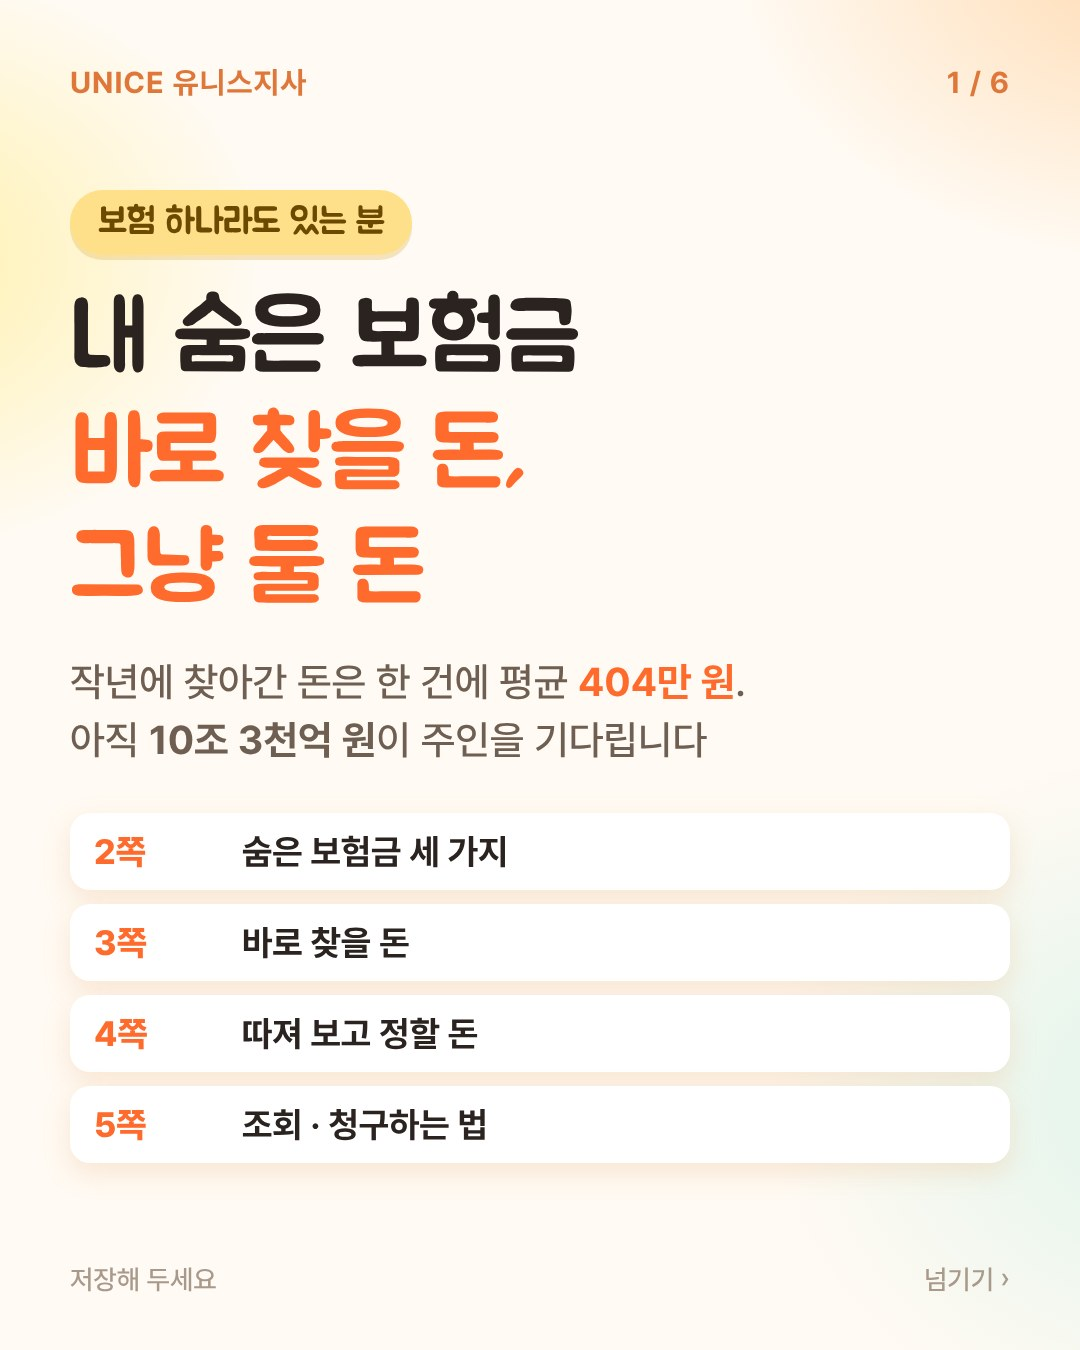
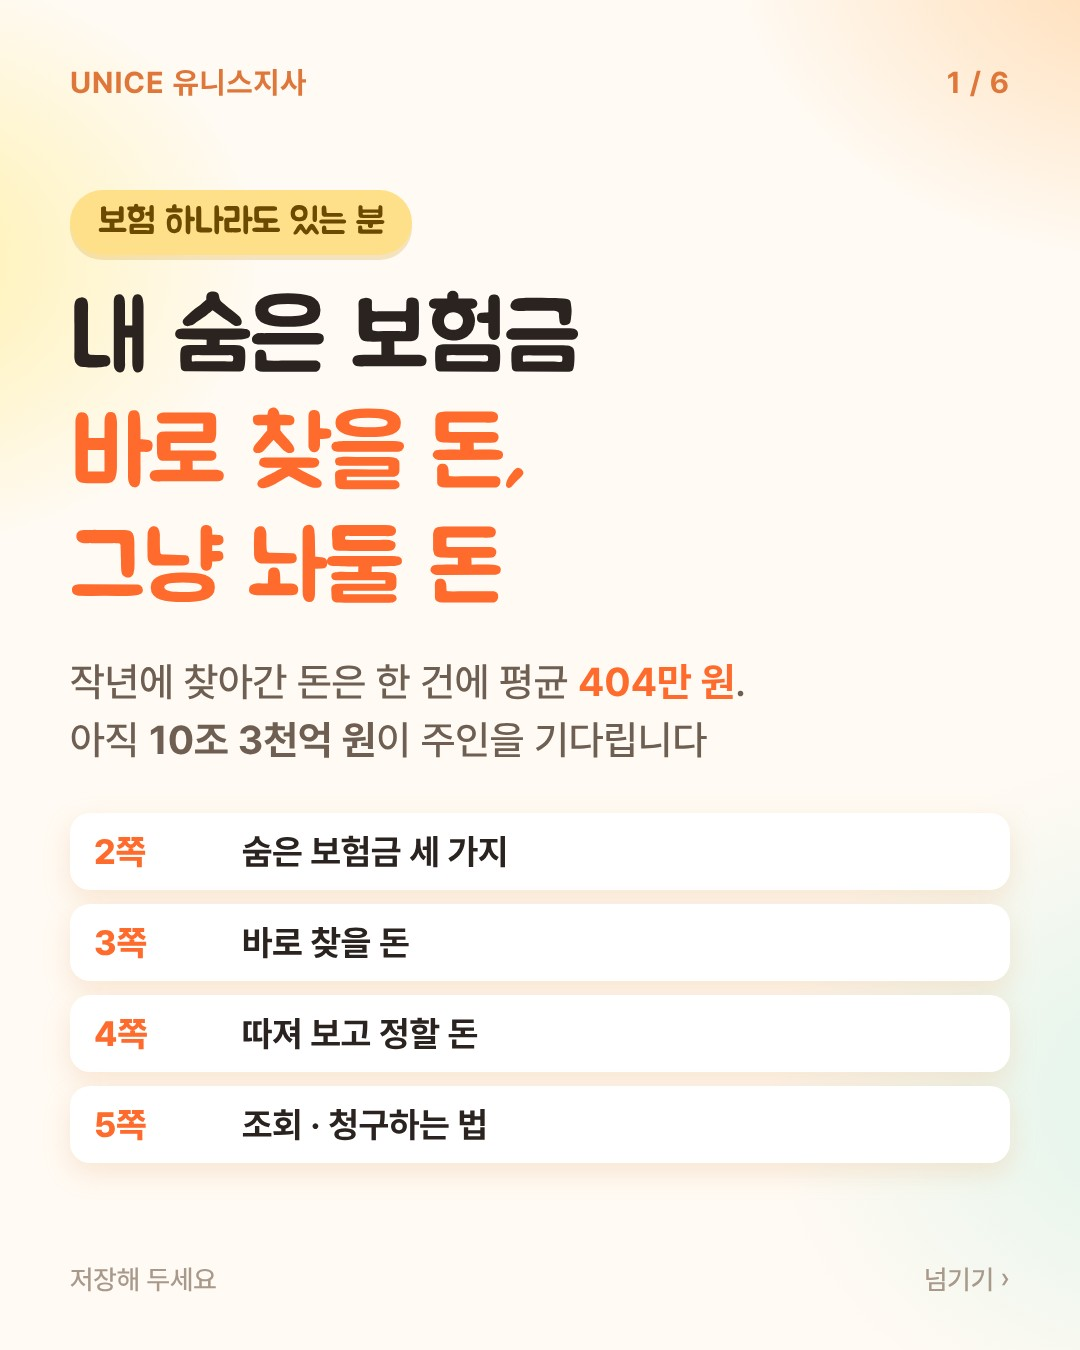
ig: 숨은 보험금 자료 「둘 돈」 → 「놔둘 돈」 (6장 · 카드 · 페이지 · 신청 · 무료 자료)
Claude-Session: https://claude.ai/code/session_01Wbm9HneKnYDdz2uZqWVMXR

Changed region(s): [[0.2139, 0.3733, 0.4583, 0.4667]]

diff --git a/ig/apply.html b/ig/apply.html
@@ -58,7 +58,7 @@ body.ok #form{display:none}body.ok #done{display:block}
 (function(){
 var GAS = 'https://script.google.com/macros/s/AKfycbx3dE8zn0pkrjsklnrWP-dLUJQ_PyLfVPGd49YsX28U-Wc6ifM4TxdNBgB14b9bOyvL/exec';
 var OWNER = 'ktk01';   /* 인스타 신청은 모두 대표에게 들어가고 대표가 배분 */
-var TOPICS = {"keep6": {"h": "내 보험은 6가지 중<br><b>뭐가 되는지</b> 알려 드릴게요", "d": "상품마다 되는 방법이 달라요. 이름과 연락처만 남겨 주시면 내 보험에서 쓸 수 있는 방법을 알려 드립니다.", "chip": "해지 대신 쓸 방법", "title": "해지 대신 쓰는 방법 6가지"}, "yearend": {"h": "내 연봉이면<br><b>12월에 얼마 넣을지</b> 같이 봐 드릴게요", "d": "올해 이미 넣은 돈과 내 연봉을 보고, 12월 안에 더 넣을지와 얼마가 맞는지 같이 봐 드립니다.", "chip": "연말정산", "title": "내 연봉이면 12월에 얼마 넣고 얼마 돌려받나"}, "after": {"h": "부모님 보험,<br><b>어디에 뭐가 있는지</b> 같이 찾아 드릴게요", "d": "조회 결과에 나온 보험이 어떤 것인지, 청구할 수 있는 것이 남았는지 차근차근 봐 드립니다.", "chip": "부모님 보험 찾기", "title": "부모님 보내 드린 뒤 기한별로 할 일"}, "lookup7": {"h": "7곳 하나하나 하기 번거롭다면<br><b>숨은 내 돈, 같이 찾아 드릴게요</b>", "d": "조회 결과에 모르는 보험이 나와도 괜찮아요. 어떤 보험인지, 받을 돈이 남았는지 같이 봐 드립니다.", "chip": "모르는 보험 확인", "title": "내 돈 찾는 무료 조회 7곳"}, "car": {"h": "내 차, 내 상황이면<br><b>어떤 할인이 붙는지</b> 봐 드릴게요", "d": "운전하는 사람, 아이, 블랙박스처럼 내 상황에 따라 붙는 할인이 달라요. 갱신 전에 빠진 할인이 없는지 같이 봐 드립니다.", "chip": "자동차보험 할인", "title": "자동차보험 할인 특약 정리"}, "cap": {"h": "내 병원비,<br><b>돌려받을 게 남았는지</b> 같이 봐 드릴게요", "d": "우리 집과 부모님 병원비 중에 돌려받을 게 있는지, 신청은 어떻게 하는지 차근차근 알려 드립니다.", "chip": "병원비 돌려받기", "title": "내 소득 구간이면 병원비 얼마부터 돌려받나"}, "hospital": {"h": "못 받은 병원비,<br><b>내 실손으로 얼마까지 되는지</b> 알려 드릴게요", "d": "실손은 가입한 때에 따라 돌려받는 금액이 달라요. 내 실손 기준으로 얼마까지 되는지 알려 드립니다.", "chip": "못 받은 병원비", "title": "놓친 병원비 찾는 법"}, "caracc": {"h": "내 사고, 내 보험이면<br><b>따로 받을 돈이 있는지</b> 봐 드릴게요", "d": "상대 보험에서 받을 돈과 내 운전자 · 상해보험에서 따로 나오는 돈을 나눠서 차근차근 알려 드립니다.", "chip": "차 사고 보상금", "title": "차 사고 나면 받을 수 있는 돈 7가지"}, "hidden": {"h": "조회 결과에 나온 돈,<br><b>찾을지 둘지</b> 같이 봐 드릴게요", "d": "회사별로 나온 숨은 보험금이 어떤 돈인지, 지금 찾는 게 나은지 그대로 두는 게 나은지 차근차근 봐 드립니다.", "chip": "숨은 보험금 찾기", "title": "숨은 보험금, 바로 찾을 돈 · 그냥 둘 돈"}, "silson": {"title": "실손 인상 안내", "h": "내 실손보험료,<br><b>앞으로 얼마나 오를지</b> 예측해 드릴게요", "d": "가입 시기와 나이에 따라 오르는 폭이 달라요. 이름과 연락처만 남겨 주시면 내 실손 기준으로 예측해서 알려 드려요.", "chip": "실손이 얼마나 오를지", "hub": 1, "back": "silson.html", "backText": "앞 화면으로 돌아가기"}, "quiz": {"title": "이럴 때 내 보험에서 나올까 퀴즈", "h": "이 보장이 <b>내 보험에 있는지</b><br>확인해 드릴게요", "d": "다른 보험에 특약으로 붙어 있어서 있는 줄 모르는 분이 많아요. 이름과 연락처만 남겨 주시면 확인해서 알려 드려요.", "chip": "배상책임 보장이 있는지", "hub": 1, "back": "quiz.html", "backText": "퀴즈로 돌아가기"}, "ask": {"title": "대문 링크", "h": "내 보험,<br><b>손해 보는 곳은 없는지</b><br>알려 드릴게요", "d": "궁금한 것을 골라 주세요. 이름과 연락처만 남겨 주시면 내 보험 기준으로 알려 드려요.", "chip": "", "hub": 1, "back": "./", "backText": "앞 화면으로 돌아가기"}};
+var TOPICS = {"keep6": {"h": "내 보험은 6가지 중<br><b>뭐가 되는지</b> 알려 드릴게요", "d": "상품마다 되는 방법이 달라요. 이름과 연락처만 남겨 주시면 내 보험에서 쓸 수 있는 방법을 알려 드립니다.", "chip": "해지 대신 쓸 방법", "title": "해지 대신 쓰는 방법 6가지"}, "yearend": {"h": "내 연봉이면<br><b>12월에 얼마 넣을지</b> 같이 봐 드릴게요", "d": "올해 이미 넣은 돈과 내 연봉을 보고, 12월 안에 더 넣을지와 얼마가 맞는지 같이 봐 드립니다.", "chip": "연말정산", "title": "내 연봉이면 12월에 얼마 넣고 얼마 돌려받나"}, "after": {"h": "부모님 보험,<br><b>어디에 뭐가 있는지</b> 같이 찾아 드릴게요", "d": "조회 결과에 나온 보험이 어떤 것인지, 청구할 수 있는 것이 남았는지 차근차근 봐 드립니다.", "chip": "부모님 보험 찾기", "title": "부모님 보내 드린 뒤 기한별로 할 일"}, "lookup7": {"h": "7곳 하나하나 하기 번거롭다면<br><b>숨은 내 돈, 같이 찾아 드릴게요</b>", "d": "조회 결과에 모르는 보험이 나와도 괜찮아요. 어떤 보험인지, 받을 돈이 남았는지 같이 봐 드립니다.", "chip": "모르는 보험 확인", "title": "내 돈 찾는 무료 조회 7곳"}, "car": {"h": "내 차, 내 상황이면<br><b>어떤 할인이 붙는지</b> 봐 드릴게요", "d": "운전하는 사람, 아이, 블랙박스처럼 내 상황에 따라 붙는 할인이 달라요. 갱신 전에 빠진 할인이 없는지 같이 봐 드립니다.", "chip": "자동차보험 할인", "title": "자동차보험 할인 특약 정리"}, "cap": {"h": "내 병원비,<br><b>돌려받을 게 남았는지</b> 같이 봐 드릴게요", "d": "우리 집과 부모님 병원비 중에 돌려받을 게 있는지, 신청은 어떻게 하는지 차근차근 알려 드립니다.", "chip": "병원비 돌려받기", "title": "내 소득 구간이면 병원비 얼마부터 돌려받나"}, "hospital": {"h": "못 받은 병원비,<br><b>내 실손으로 얼마까지 되는지</b> 알려 드릴게요", "d": "실손은 가입한 때에 따라 돌려받는 금액이 달라요. 내 실손 기준으로 얼마까지 되는지 알려 드립니다.", "chip": "못 받은 병원비", "title": "놓친 병원비 찾는 법"}, "caracc": {"h": "내 사고, 내 보험이면<br><b>따로 받을 돈이 있는지</b> 봐 드릴게요", "d": "상대 보험에서 받을 돈과 내 운전자 · 상해보험에서 따로 나오는 돈을 나눠서 차근차근 알려 드립니다.", "chip": "차 사고 보상금", "title": "차 사고 나면 받을 수 있는 돈 7가지"}, "hidden": {"h": "조회 결과에 나온 돈,<br><b>찾을지 놔둘지</b> 같이 봐 드릴게요", "d": "회사별로 나온 숨은 보험금이 어떤 돈인지, 지금 찾는 게 나은지 그대로 두는 게 나은지 차근차근 봐 드립니다.", "chip": "숨은 보험금 찾기", "title": "숨은 보험금, 바로 찾을 돈 · 그냥 놔둘 돈"}, "silson": {"title": "실손 인상 안내", "h": "내 실손보험료,<br><b>앞으로 얼마나 오를지</b> 예측해 드릴게요", "d": "가입 시기와 나이에 따라 오르는 폭이 달라요. 이름과 연락처만 남겨 주시면 내 실손 기준으로 예측해서 알려 드려요.", "chip": "실손이 얼마나 오를지", "hub": 1, "back": "silson.html", "backText": "앞 화면으로 돌아가기"}, "quiz": {"title": "이럴 때 내 보험에서 나올까 퀴즈", "h": "이 보장이 <b>내 보험에 있는지</b><br>확인해 드릴게요", "d": "다른 보험에 특약으로 붙어 있어서 있는 줄 모르는 분이 많아요. 이름과 연락처만 남겨 주시면 확인해서 알려 드려요.", "chip": "배상책임 보장이 있는지", "hub": 1, "back": "quiz.html", "backText": "퀴즈로 돌아가기"}, "ask": {"title": "대문 링크", "h": "내 보험,<br><b>손해 보는 곳은 없는지</b><br>알려 드릴게요", "d": "궁금한 것을 골라 주세요. 이름과 연락처만 남겨 주시면 내 보험 기준으로 알려 드려요.", "chip": "", "hub": 1, "back": "./", "backText": "앞 화면으로 돌아가기"}};
 var BASE = ['해지 대신 쓸 방법', '보험료 줄이기', '못 받은 병원비', '연말정산', '부모님 보험 찾기', '그 밖에'];
 function $(i){ return document.getElementById(i); }
 var m = /[?&]t=([a-z0-9]+)/.exec(location.search), tk = m && TOPICS[m[1]] ? m[1] : '', t = tk ? TOPICS[tk] : null;

diff --git a/ig/hidden.html b/ig/hidden.html
@@ -1,1 +1,1 @@
-<!doctype html><html lang="ko"><head><meta charset="utf-8"><meta name="viewport" content="width=device-width,initial-scale=1"><title>숨은 보험금, 바로 찾을 돈 · 그냥 둘 돈 | UNICE 유니스지사</title><meta property="og:title" content="숨은 보험금, 바로 찾을 돈 · 그냥 둘 돈"><meta property="og:description" content="6장으로 정리했습니다. 눌러서 보고 저장하세요."><meta property="og:type" content="website"><meta property="og:site_name" content="UNICE 유니스지사"><meta property="og:url" content="https://unice-vip.co.kr/ig/hidden.html"><meta property="og:image" content="https://unice-vip.co.kr/ig/hidden_card.jpg"><meta property="og:image:width" content="1200"><meta property="og:image:height" content="630"><meta name="twitter:card" content="summary_large_image"><style>@font-face{font-family:"UT";src:url(f_title.woff2) format("woff2");font-display:swap}.nx h2,.nx a{font-family:"UT",-apple-system,"Apple SD Gothic Neo","Malgun Gothic",sans-serif;font-weight:400!important}.nx h2 b{font-weight:400}body{margin:0;background:radial-gradient(380px 260px at 108% -30px,#ffd9ae 0,rgba(255,217,174,0) 70%),radial-gradient(320px 240px at -12% 150px,#fff0a8 0,rgba(255,240,168,0) 70%),#fffaf3;background-repeat:no-repeat;color:#a8998b;font-family:-apple-system,"Apple SD Gothic Neo","Malgun Gothic",sans-serif;text-align:center}main{max-width:640px;margin:0 auto;padding:12px}img{width:100%;display:block;border-radius:18px;margin:0 0 14px;box-shadow:0 8px 22px rgba(232,180,130,.3)}p{font-size:14px;line-height:1.6;padding:8px 8px 28px;word-break:keep-all}.nx{text-align:left;background:linear-gradient(180deg,#fff,#fff7ee);box-shadow:0 10px 26px rgba(232,180,130,.32);border:1.5px solid #fff;border-radius:24px;padding:24px 18px 20px;margin:8px 0 4px;word-break:keep-all;color:#2a2320}.nx i{font-style:normal;display:inline-block;background:#ffe08a;color:#6b4a00;font-weight:800;font-size:13px;border-radius:12px;padding:5px 11px}.nx h2{font-size:24px;line-height:1.32;margin:12px 0 8px;letter-spacing:-.4px}.nx h2 b{color:#ff6b2c}.nx div{font-size:15px;line-height:1.6;color:#7a6a5c}.nx ul{list-style:none;display:flex;flex-wrap:wrap;gap:6px;margin:14px 0 0;padding:0}.nx li{background:#fff;border-radius:12px;padding:7px 10px;font-size:13px;font-weight:700;color:#7a6a5c;box-shadow:0 3px 8px rgba(240,201,160,.3)}.nx a{display:block;margin-top:16px;background:linear-gradient(135deg,#ff9248 0,#ff5a2c 100%);color:#fff;font-weight:800;font-size:20px;text-align:center;text-decoration:none;border-radius:999px;padding:18px 10px;box-shadow:0 10px 22px rgba(255,107,44,.35),inset 0 2px 0 rgba(255,255,255,.35)}@media(max-width:374px){.nx a{font-size:17.5px;padding:18px 6px}}</style></head><body><main><img src="hidden_1.jpg" alt="숨은 보험금, 바로 찾을 돈 · 그냥 둘 돈 1/6"><img src="hidden_2.jpg" alt="숨은 보험금, 바로 찾을 돈 · 그냥 둘 돈 2/6"><img src="hidden_3.jpg" alt="숨은 보험금, 바로 찾을 돈 · 그냥 둘 돈 3/6"><img src="hidden_4.jpg" alt="숨은 보험금, 바로 찾을 돈 · 그냥 둘 돈 4/6"><img src="hidden_5.jpg" alt="숨은 보험금, 바로 찾을 돈 · 그냥 둘 돈 5/6"><img src="hidden_6.jpg" alt="숨은 보험금, 바로 찾을 돈 · 그냥 둘 돈 6/6"><section class="nx"><i>여기까지 읽으셨다면 👏</i><h2>조회 결과에 나온 돈,<br><b>찾을지 둘지</b> 같이 봐 드릴게요</h2><div>회사별로 나온 숨은 보험금이 어떤 돈인지, 지금 찾는 게 나은지 그대로 두는 게 나은지 차근차근 봐 드립니다.</div><ul><li>⏰ 적는 데 1분</li><li>💸 비용 없음</li><li>📩 정리해서 답장</li></ul><a href="apply.html?t=hidden">내 숨은 보험금, 찾을까 둘까요? 💬</a></section><p>그림을 길게 누르면 저장할 수 있습니다.<br>한화생명금융서비스 VIP금융사업부 유니스 · 부산<br>인스타그램 @unice0930</p></main></body></html>
+<!doctype html><html lang="ko"><head><meta charset="utf-8"><meta name="viewport" content="width=device-width,initial-scale=1"><title>숨은 보험금, 바로 찾을 돈 · 그냥 놔둘 돈 | UNICE 유니스지사</title><meta property="og:title" content="숨은 보험금, 바로 찾을 돈 · 그냥 놔둘 돈"><meta property="og:description" content="6장으로 정리했습니다. 눌러서 보고 저장하세요."><meta property="og:type" content="website"><meta property="og:site_name" content="UNICE 유니스지사"><meta property="og:url" content="https://unice-vip.co.kr/ig/hidden.html"><meta property="og:image" content="https://unice-vip.co.kr/ig/hidden_card.jpg"><meta property="og:image:width" content="1200"><meta property="og:image:height" content="630"><meta name="twitter:card" content="summary_large_image"><style>@font-face{font-family:"UT";src:url(f_title.woff2) format("woff2");font-display:swap}.nx h2,.nx a{font-family:"UT",-apple-system,"Apple SD Gothic Neo","Malgun Gothic",sans-serif;font-weight:400!important}.nx h2 b{font-weight:400}body{margin:0;background:radial-gradient(380px 260px at 108% -30px,#ffd9ae 0,rgba(255,217,174,0) 70%),radial-gradient(320px 240px at -12% 150px,#fff0a8 0,rgba(255,240,168,0) 70%),#fffaf3;background-repeat:no-repeat;color:#a8998b;font-family:-apple-system,"Apple SD Gothic Neo","Malgun Gothic",sans-serif;text-align:center}main{max-width:640px;margin:0 auto;padding:12px}img{width:100%;display:block;border-radius:18px;margin:0 0 14px;box-shadow:0 8px 22px rgba(232,180,130,.3)}p{font-size:14px;line-height:1.6;padding:8px 8px 28px;word-break:keep-all}.nx{text-align:left;background:linear-gradient(180deg,#fff,#fff7ee);box-shadow:0 10px 26px rgba(232,180,130,.32);border:1.5px solid #fff;border-radius:24px;padding:24px 18px 20px;margin:8px 0 4px;word-break:keep-all;color:#2a2320}.nx i{font-style:normal;display:inline-block;background:#ffe08a;color:#6b4a00;font-weight:800;font-size:13px;border-radius:12px;padding:5px 11px}.nx h2{font-size:24px;line-height:1.32;margin:12px 0 8px;letter-spacing:-.4px}.nx h2 b{color:#ff6b2c}.nx div{font-size:15px;line-height:1.6;color:#7a6a5c}.nx ul{list-style:none;display:flex;flex-wrap:wrap;gap:6px;margin:14px 0 0;padding:0}.nx li{background:#fff;border-radius:12px;padding:7px 10px;font-size:13px;font-weight:700;color:#7a6a5c;box-shadow:0 3px 8px rgba(240,201,160,.3)}.nx a{display:block;margin-top:16px;background:linear-gradient(135deg,#ff9248 0,#ff5a2c 100%);color:#fff;font-weight:800;font-size:20px;text-align:center;text-decoration:none;border-radius:999px;padding:18px 10px;box-shadow:0 10px 22px rgba(255,107,44,.35),inset 0 2px 0 rgba(255,255,255,.35)}@media(max-width:374px){.nx a{font-size:17.5px;padding:18px 6px}}</style></head><body><main><img src="hidden_1.jpg" alt="숨은 보험금, 바로 찾을 돈 · 그냥 놔둘 돈 1/6"><img src="hidden_2.jpg" alt="숨은 보험금, 바로 찾을 돈 · 그냥 놔둘 돈 2/6"><img src="hidden_3.jpg" alt="숨은 보험금, 바로 찾을 돈 · 그냥 놔둘 돈 3/6"><img src="hidden_4.jpg" alt="숨은 보험금, 바로 찾을 돈 · 그냥 놔둘 돈 4/6"><img src="hidden_5.jpg" alt="숨은 보험금, 바로 찾을 돈 · 그냥 놔둘 돈 5/6"><img src="hidden_6.jpg" alt="숨은 보험금, 바로 찾을 돈 · 그냥 놔둘 돈 6/6"><section class="nx"><i>여기까지 읽으셨다면 👏</i><h2>조회 결과에 나온 돈,<br><b>찾을지 놔둘지</b> 같이 봐 드릴게요</h2><div>회사별로 나온 숨은 보험금이 어떤 돈인지, 지금 찾는 게 나은지 그대로 두는 게 나은지 차근차근 봐 드립니다.</div><ul><li>⏰ 적는 데 1분</li><li>💸 비용 없음</li><li>📩 정리해서 답장</li></ul><a href="apply.html?t=hidden">내 숨은 보험금, 찾을까 둘까요? 💬</a></section><p>그림을 길게 누르면 저장할 수 있습니다.<br>한화생명금융서비스 VIP금융사업부 유니스 · 부산<br>인스타그램 @unice0930</p></main></body></html>

diff --git a/ig/free.html b/ig/free.html
@@ -57,7 +57,7 @@ html{scroll-behavior:smooth}
 <a class="t t1" href="hospital.html?c=2&src=hl"><div class="ic">🧾</div><div><span class="tag" style="background:#fff0e0;color:#c04a00">실손보험 있는 분</span><b>놓친 병원비<br><em>찾는 법</em></b><span class="s">3년 안이면 지난 것도 받아요</span></div><i>›</i></a>
 <a class="t t3" href="cap.html?c=2&src=hl"><div class="ic">🏥</div><div><span class="tag" style="background:#e4f6ee;color:#0b7a4e">병원비 많이 낸 해</span><b>내 소득이면 병원비<br><em>얼마부터 돌려받나</em></b><span class="s">본인부담상한제 구간표</span></div><i>›</i></a>
 <h2 class="sec" id="c2"><span style="background:linear-gradient(145deg,#f6d27a,#c8902c)">🪙</span>숨은 보험금<small>잠자는 내 돈 찾기</small></h2>
-<a class="t t3" href="hidden.html?c=2&src=hl"><div class="ic">🪙</div><div><span class="nw">NEW</span><span class="tag" style="background:#e4f6ee;color:#0b7a4e">보험 하나라도 있는 분</span><b>숨은 보험금<br><em>찾을 돈 · 둘 돈</em></b><span class="s">중도 · 만기 · 휴면 구분표</span></div><i>›</i></a>
+<a class="t t3" href="hidden.html?c=2&src=hl"><div class="ic">🪙</div><div><span class="nw">NEW</span><span class="tag" style="background:#e4f6ee;color:#0b7a4e">보험 하나라도 있는 분</span><b>숨은 보험금<br><em>찾을 돈 · 놔둘 돈</em></b><span class="s">중도 · 만기 · 휴면 구분표</span></div><i>›</i></a>
 <a class="t t2" href="lookup7.html?c=2&src=hl"><div class="ic">🔎</div><div><span class="tag" style="background:#e6f1ff;color:#0b55a8">폰으로 5분</span><b>내 돈 찾는<br><em>무료 조회 7곳</em></b><span class="s">숨은 보험금 · 잠자는 예금</span></div><i>›</i></a>
 <h2 class="sec" id="c3"><span style="background:linear-gradient(145deg,#6fb4ff,#2f62d8)">🚗</span>자동차 · 사고<small>보상금 · 할인 특약</small></h2>
 <a class="t t2" href="caracc.html?c=2&src=hl"><div class="ic">🚙</div><div><span class="nw">NEW</span><span class="tag" style="background:#e6f1ff;color:#0b55a8">차 사고 난 분</span><b>차 사고 나면<br><em>받을 수 있는 돈 7가지</em></b><span class="s">수리비 말고 따로 받는 돈</span></div><i>›</i></a>
